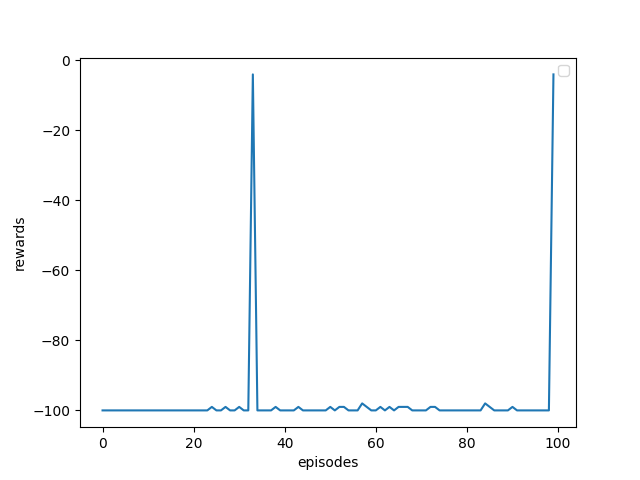
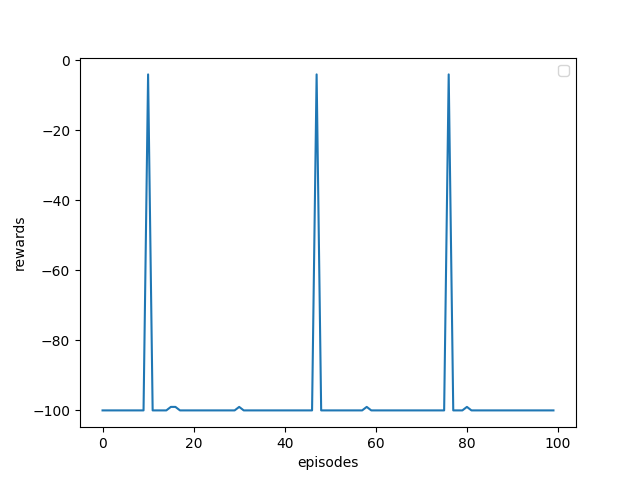
Iteration 3

Changed region(s): [[0.3125, 0.1562, 0.8125, 0.875], [0.2188, 0.1562, 0.2812, 0.875], [0.8438, 0.1562, 0.875, 0.8438]]

diff --git a/agent.py b/agent.py
@@ -16,9 +16,9 @@ class Agent:
 
         # Q-learning hyperparameters
         self.gamma = 0.95  # Discount rate
-        self.epsilon = 1  # Exploration rate
+        self.epsilon = 0.7  # Exploration rate
         self.epsilon_min = 0.1  # Minimal exploration rate
-        self.epsilon_decay = 0.99  # Decay rate for epsilon
+        self.epsilon_decay = 0.999  # Decay rate for epsilon
 
         self.weight_backup_file = "weights.h5"
         self.model = Agent.create_neural_network(self.weight_backup_file)
